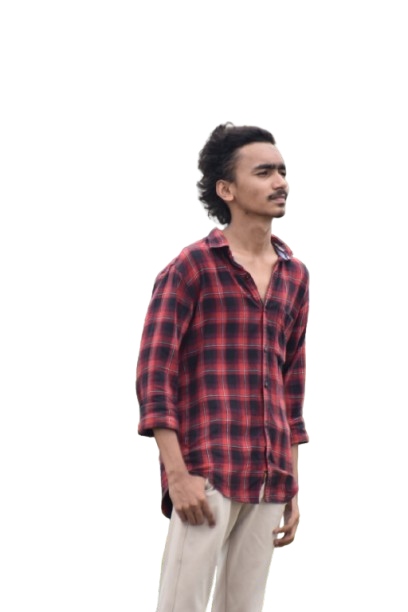
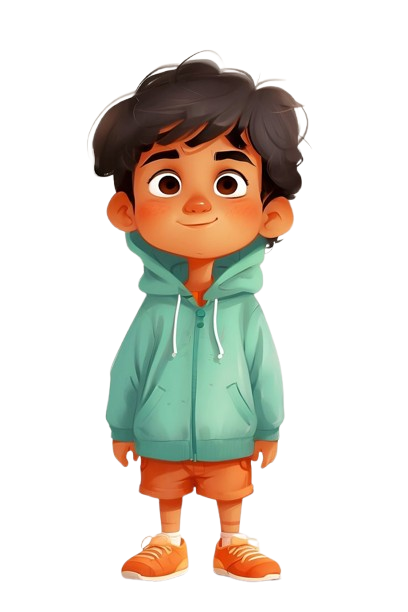
feat(about): streamline narrative editorial layout and implement interactive resume download CTA

diff --git a/src/components/sections/About.jsx b/src/components/sections/About.jsx
@@ -1,6 +1,7 @@
 import React from 'react';
 import { motion } from 'framer-motion';
-import { Palette, Terminal, ShieldCheck, Award, ArrowUpRight } from 'lucide-react';
+import { Download, FileText } from 'lucide-react';
+import { MagneticButton } from '../common/MagneticButton';
 
 export const About = () => {
   const stats = [
@@ -10,7 +11,6 @@ export const About = () => {
     { number: '04', label: 'Global Certifications', detail: 'GitHub, OCI, Cisco' }
   ];
 
- 
   return (
     <section id="about" className="py-28 px-6 md:px-12 max-w-7xl mx-auto border-t border-theme-border/60">
       {/* Section Header */}
@@ -22,92 +22,80 @@ export const About = () => {
         className="flex flex-col md:flex-row md:items-end justify-between gap-6 mb-16"
       >
         <div>
-          <h2 className="font-serif text-3xl sm:text-4xl text-theme-text font-normal tracking-tight">
-            The Intersection of <span className="font-display text-theme-accent ">Code</span> & <span className="font-display text-theme-accent">Canvas</span>
+          <h2 className="font-label text-2xl sm:text-3xl text-theme-text font-normal tracking-tight">
+            The Intersection of <span className="font-label text-theme-accent tracking-tight">Code</span> & <span className="font-label text-theme-accent tracking-tight">Canvas</span>
           </h2>
         </div>
       </motion.div>
 
-      {/* Main Editorial Grid */}
-      <div className="grid grid-cols-1 lg:grid-cols-12 gap-12 lg:gap-16 items-start">
-        {/* Left: Artistic Composition & Image */}
-        <motion.div
-          initial={{ opacity: 0, scale: 0.95 }}
-          whileInView={{ opacity: 1, scale: 1 }}
-          viewport={{ once: true, margin: '-60px' }}
-          transition={{ duration: 0.9, ease: [0.16, 1, 0.3, 1] }}
-          className="lg:col-span-5 relative"
-        >
-          <div className="relative aspect-[3/4] bg-theme-bg-secondary border border-theme-border overflow-hidden group shadow-subtle">
-            <img
-              src="./assets/download.jpg"
-              alt="Creative Atelier Workspace"
-              className="w-full h-full object-cover object-center grayscale group-hover:grayscale-0 group-hover:scale-105 transition-all duration-700 ease-out"
-            />
-            <div className="absolute inset-0 bg-theme-bg/20 group-hover:bg-transparent transition-colors duration-500" />
-            <div className="absolute bottom-6 left-6 right-6 p-4 bg-theme-card/90 backdrop-blur-md border border-theme-border transition-transform duration-300 group-hover:translate-y-[-2px]">
-              <span className="font-label text-[10px] uppercase tracking-widest text-theme-accent block mb-1">
-                Artist Handle
+      {/* Main Narrative & Key Stats */}
+      <motion.div
+        initial={{ opacity: 0, y: 30 }}
+        whileInView={{ opacity: 1, y: 0 }}
+        viewport={{ once: true, margin: '-60px' }}
+        transition={{ duration: 0.8, delay: 0.15, ease: [0.16, 1, 0.3, 1] }}
+        className="max-w-4xl space-y-10"
+      >
+        <div className="space-y-6 text-theme-text-secondary font-sans font-light leading-relaxed text-base sm:text-lg">
+          <p>
+            I am Akhileswar Kamale, a full-stack developer and digital artist based in Tirupati, India. For me, programming and fine art are not opposing fields—they are complementary facets of the same creative drive: translating abstract ideas into tangible reality.
+          </p>
+          <p>
+            My engineering work is rooted in clean architectural design, microservice reliability, and modern web ergonomics using React, Node.js, and Python. Simultaneously, my hours spent sketching with graphite and charcoal have conditioned me to observe micro-details, visual hierarchy, and balance—qualities that directly influence how I craft digital interfaces.
+          </p>
+          <p>
+            Currently interning as a Full Stack Intern at Udr Crafts and pursuing B.Tech in Computer Science and Engineering(Cyber Security) at SVCE with an academic record of 9.13 CGPA, I bring rigorous technical discipline and an artist's discerning eye to every project.
+          </p>
+        </div>
+
+        {/* Resume Actions */}
+        <div className="flex flex-wrap items-center gap-4 pt-2">
+          <MagneticButton
+            variant="primary"
+            href="./assets/Akhileswar_Kamale_Resume.pdf"
+            download="Akhileswar_Kamale_Resume.pdf"
+            target="_blank"
+            rel="noopener noreferrer"
+          >
+            <Download className="w-4 h-4" />
+            <span>Download Resume</span>
+          </MagneticButton>
+
+          <MagneticButton
+            variant="secondary"
+            href="./assets/Akhileswar_Kamale_Resume.pdf"
+            target="_blank"
+            rel="noopener noreferrer"
+          >
+            <FileText className="w-4 h-4" />
+            <span>View PDF</span>
+          </MagneticButton>
+        </div>
+
+        {/* Key Stats Bar */}
+        <div className="grid grid-cols-2 sm:grid-cols-4 gap-6 sm:gap-10 pt-10 border-t border-theme-border/60">
+          {stats.map((s, idx) => (
+            <motion.div
+              key={idx}
+              initial={{ opacity: 0, y: 20 }}
+              whileInView={{ opacity: 1, y: 0 }}
+              viewport={{ once: true }}
+              transition={{ duration: 0.6, delay: idx * 0.1, ease: [0.16, 1, 0.3, 1] }}
+              className="space-y-1 group"
+            >
+              <span className="font-label text-2xl sm:text-3xl font-normal text-theme-accent block group-hover:scale-105 transition-transform origin-left">
+                {s.number}
               </span>
-              <a
-                href="https://www.instagram.com/linesbyakhileswar/"
-                target="_blank"
-                rel="noopener noreferrer"
-                className="font-serif text-base italic text-theme-text flex items-center justify-between hover:text-theme-accent transition-colors"
-              >
-                <span>@linesbyakhileswar</span>
-                <ArrowUpRight className="w-4 h-4 text-theme-accent" />
-              </a>
-            </div>
-          </div>
-        </motion.div>
-
-        {/* Right: Narrative & Pillars */}
-        <motion.div
-          initial={{ opacity: 0, y: 30 }}
-          whileInView={{ opacity: 1, y: 0 }}
-          viewport={{ once: true, margin: '-60px' }}
-          transition={{ duration: 0.8, delay: 0.15, ease: [0.16, 1, 0.3, 1] }}
-          className="lg:col-span-7 space-y-10"
-        >
-          <div className="space-y-6 text-theme-text-secondary font-sans font-light leading-relaxed text-base sm:text-lg">
-            <p>
-              I am Akhileswar Kamale, a full-stack developer and digital artist based in Tirupati, India. For me, programming and fine art are not opposing fields—they are complementary facets of the same creative drive: translating abstract ideas into tangible reality.
-            </p>
-            <p>
-              My engineering work is rooted in clean architectural design, microservice reliability, and modern web ergonomics using React, Node.js, and Python. Simultaneously, my hours spent sketching with graphite and charcoal have conditioned me to observe micro-details, visual hierarchy, and balance—qualities that directly influence how I craft digital interfaces.
-            </p>
-            <p>
-              Currently interning as a Full Stack Intern at Udr Crafts and pursuing B.Tech in Computer Science and Engineering(Cyber Security) at SVCE with an academic record of 9.13 CGPA, I bring rigorous technical discipline and an artist's discerning eye to every project.
-            </p>
-          </div>
-
-          {/* Key Stats Bar */}
-          <div className="grid grid-cols-2 sm:grid-cols-4 gap-6 pt-8 border-t border-theme-border/60">
-            {stats.map((s, idx) => (
-              <motion.div
-                key={idx}
-                initial={{ opacity: 0, y: 20 }}
-                whileInView={{ opacity: 1, y: 0 }}
-                viewport={{ once: true }}
-                transition={{ duration: 0.6, delay: idx * 0.1, ease: [0.16, 1, 0.3, 1] }}
-                className="space-y-1 group"
-              >
-                <span className="font-label text-2xl sm:text-3xl font-normal text-theme-accent block group-hover:scale-105 transition-transform origin-left">
-                  {s.number}
-                </span>
-                <span className="font-label text-xs uppercase tracking-widest text-theme-text block font-medium">
-                  {s.label}
-                </span>
-                <span className="font-sans text-[11px] text-theme-text-secondary block font-light">
-                  {s.detail}
-                </span>
-              </motion.div>
-            ))}
-          </div>
-        </motion.div>
-      </div>
+              <span className="font-label text-xs uppercase tracking-widest text-theme-text block font-medium">
+                {s.label}
+              </span>
+              <span className="font-sans text-[11px] text-theme-text-secondary block font-light">
+                {s.detail}
+              </span>
+            </motion.div>
+          ))}
+        </div>
+      </motion.div>
     </section>
   );
 };
-
